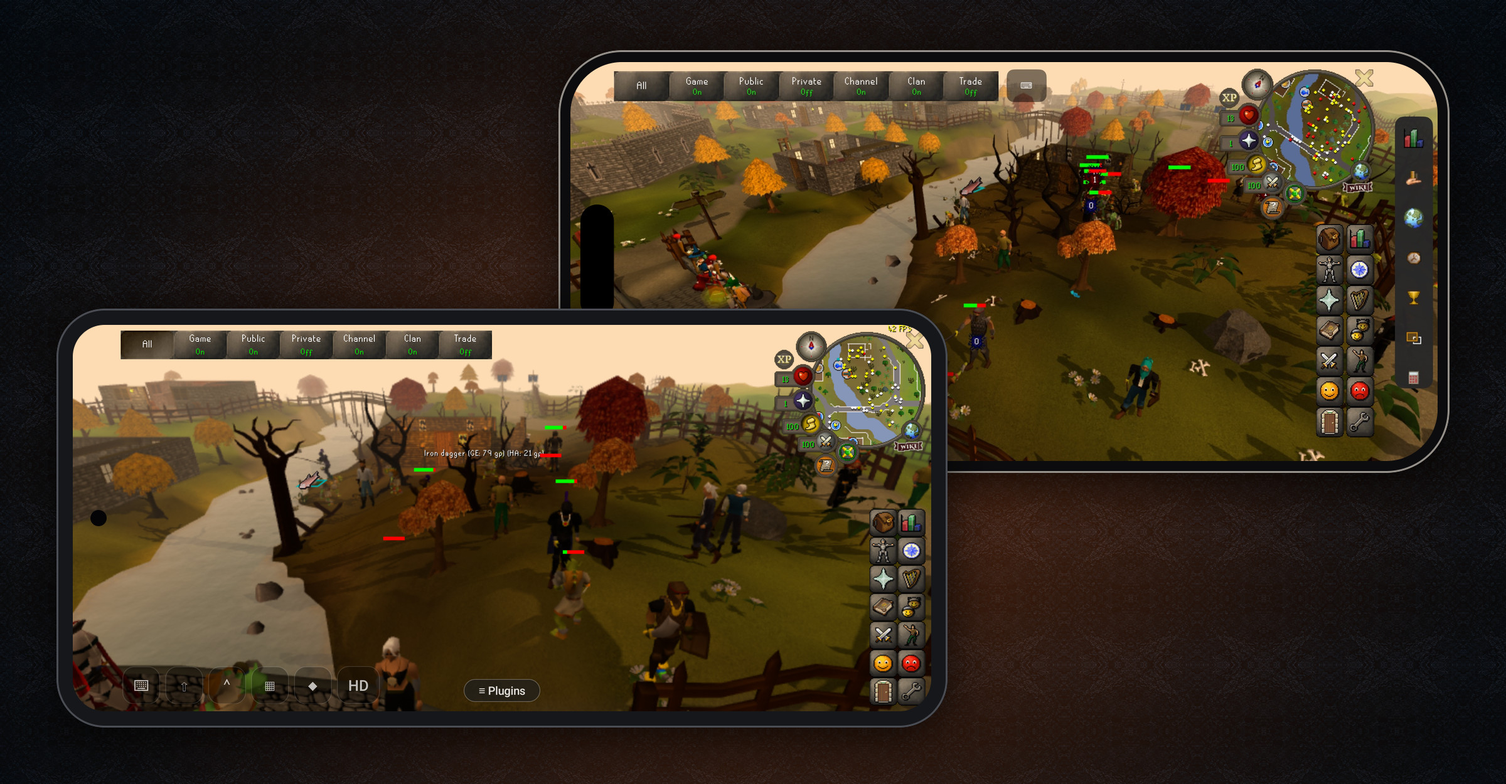
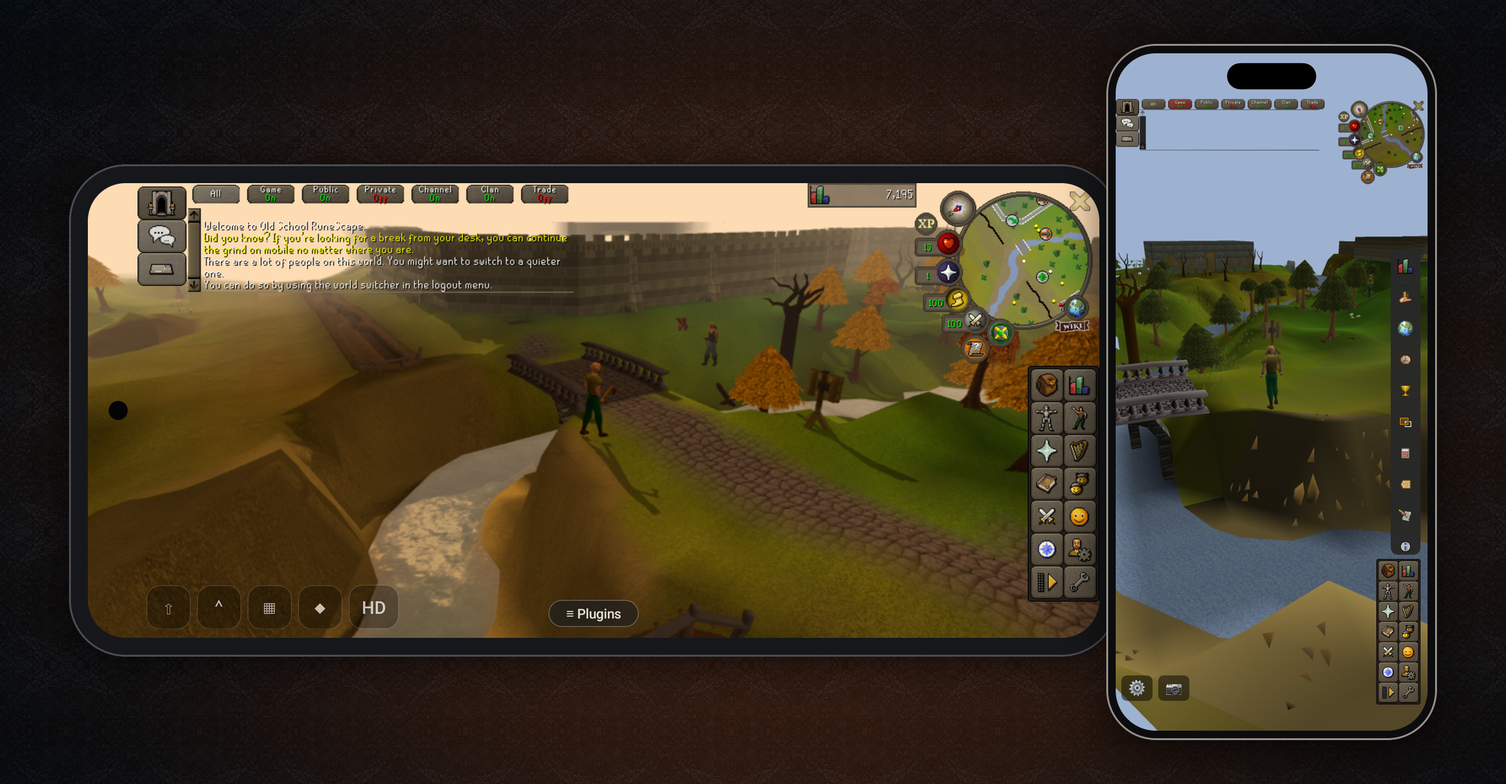
docs: new README screenshots
The top image pairs a Pixel 7a held sideways in 117 HD with an iPhone held
upright, no plugins drawing and the chat shown. Six feature cards replace the
old four: Quest Helper, Shortest Path, the Plugin Hub, 117 HD, the hold menu
and Menu Entry Swapper. make-showcase.py paints the account's name out of
each capture's chat line from a redact.json kept beside the captures, and
the hero's sideways phone tucks under the upright one by less than its
bezel so a HUD drawn to the screen's edge stays in view.

diff --git a/tools/brand/make-showcase.py b/tools/brand/make-showcase.py
@@ -4,25 +4,32 @@
     /usr/bin/python3 tools/brand/make-showcase.py build/showcase    # writes docs/screenshots/
 
 The input folder holds full-size, unedited captures named as in HERO and CARDS below. Keep it out of git: a raw
-capture can show the account's name, other players' chat or a hover menu. Check every capture before a build;
-this script frames what it's given and hides nothing.
+capture can show the account's name, other players' chat or a hover menu. Check every capture before a build.
 
-    Android: adb exec-out screencap -p > android-117hd.png              (Pixel 7a, 2400x1080 landscape)
-    iOS:     a screenshot taken on the iPhone, for 117 HD               (the simulator takes minutes to warm it up)
-             xcrun simctl io <udid> screenshot ios-plugins.png          (iPhone 17 Pro Max simulator)
+The chat's input line shows the account's name. The folder's redact.json lists a box over it for each capture,
+{"<capture>": [[x, y, w, h], ...]} in the capture's own px, and the build paints each box over from the picture
+just below it, so the name is gone, not blurred. Cover the cursor after the name too. The build stops if redact.json is missing, or names a capture no output uses. Read every output for the
+name before publishing: text recognition misses the portrait chat's small text.
 
-The simulator saves its captures portrait; they are turned to landscape here, island on the left as on the Pixel.
+    iOS:     xcrun simctl io <udid> screenshot ios-hub.png       (iPhone 17 Pro Max simulator)
+    Android: adb exec-out screencap -p > android-117hd.png        (Pixel 7a)
 
-Each output is a capture in a drawn phone on the brand's stone backdrop (make-brand.py). The game draws 540 rows
-and each phone scales that up to fill its screen, so a phone's screen here is about the game's own size: shown
-smaller than the capture, it is also sharper.
+A capture is used the way it stands, so a phone in a card is landscape or portrait as its capture is. The simulator
+saves its framebuffer portrait whichever way the game is turned: turn a landscape one a quarter left first
+(top of the game on the left, island on the left), e.g. Image.rotate(90, expand=True).
+
+Each output is a capture in a drawn phone on the brand's stone backdrop (make-brand.py). The hero pairs a
+landscape phone with a portrait one; a card is a headline over a landscape phone, or beside a portrait one, all
+cards the same size so the README's table lines up.
 
 Needs Pillow and NumPy (/usr/bin/python3 has both).
 """
 import argparse
 import importlib.util
+import json
 import os
 import sys
+import textwrap
 
 import numpy as np
 from PIL import Image, ImageDraw, ImageFilter, ImageFont
@@ -45,33 +52,66 @@ PHONES = {
     "iphone": dict(bezel=0.030, corner=0.150, body=(12, 12, 14), rim=(150, 145, 138)),  # Dynamic Island
 }
 
-# (output, capture, phone kind)
-HERO = [("ios-117hd.png", "iphone"), ("android-117hd.png", "pixel")]  # back to front
-# (output, capture, phone kind, headline, line under it)
+# (capture, phone kind): the landscape phone, then the portrait one in front of it
+HERO = [("android-hero-land.png", "pixel"), ("ios-hero-port.png", "iphone")]
+# (output, capture, phone kind, headline, line under it). The README shows them two to a row, in this order.
 CARDS = [
-    ("overlays.jpg", "android-overlays.png", "pixel", "Your overlays, on the go",
-     "Ground items, hit splats, timers and the FPS counter, as on desktop."),
-    ("plugins.jpg", "ios-plugins.png", "iphone", "Real RuneLite plugins",
-     "Turn plugins on and off and change their settings in native screens."),
-    ("renderers.jpg", "android-renderers.png", "pixel", "CPU, GPU or 117 HD",
-     "Pick the renderer that suits your phone."),
-    ("panels.jpg", "ios-panel.png", "iphone", "Side panels a tap away",
-     "World Switcher, XP Tracker, Notes and more open beside the game."),
+    ("quest-helper.jpg", "ios-quest-helper.png", "iphone", "Quest Helper",
+     "Every quest step on screen, and the way there drawn for you."),
+    ("shortest-path.jpg", "ios-shortest-path.png", "iphone", "Shortest Path",
+     "Pick a place and walk the route it draws on the ground and the minimap."),
+    ("plugin-hub.jpg", "ios-plugin-hub.png", "iphone", "The Plugin Hub",
+     "Thousands of community plugins, installed with a tap."),
+    ("117hd.jpg", "android-117hd.png", "pixel", "117 HD",
+     "Sunlight, shadows and the seasons, from the HD renderer."),
+    ("menu.jpg", "ios-menu.png", "iphone", "Hold for every option",
+     "The right-click menu, with the options plugins add."),
+    ("menu-entry-swapper.jpg", "ios-menu-entry-swapper.png", "iphone", "Menu Entry Swapper",
+     "Choose what a tap does, in native settings for every plugin."),
 ]
+CARD_W, CARD_H, PAD = 1600, 1060, 84
 
 
-def capture(folder, name):
+def boxes(folder):
+    """redact.json: the boxes to paint over in each capture."""
+    path = os.path.join(folder, "redact.json")
+    if not os.path.isfile(path):
+        sys.exit(f"missing {path}: list the boxes over the account's name, or {{}} if no capture shows it")
+    with open(path) as f:
+        redact = json.load(f)
+    used = {name for name, _ in HERO} | {c[1] for c in CARDS}
+    for name, rects in redact.items():
+        if name not in used:
+            sys.exit(f"redact.json names {name}, which no output uses")
+        if not all(len(r) == 4 and all(isinstance(v, int) for v in r) and r[2] > 0 and r[3] > 0 for r in rects):
+            sys.exit(f"redact.json: {name} needs [[x, y, w, h], ...] in whole px")
+    return redact
+
+
+def erase(shot, x, y, w, h):
+    """Paint over the box with the row of px just below it, softened sideways. Not the row above: in portrait that is
+    the chat's divider line."""
+    if x < 4 or x + w + 4 > shot.width or y < 0 or y + h >= shot.height:
+        sys.exit(f"redact box {[x, y, w, h]} isn't inside the {shot.width}x{shot.height} capture")
+    a = np.asarray(shot).astype(float)
+    below = a[y + h, x - 4:x + w + 4]
+    soft = np.stack([np.convolve(below[:, c], np.ones(9) / 9, mode="valid") for c in range(3)], axis=1)
+    a[y:y + h, x:x + w] = soft[None]
+    return Image.fromarray(a.round().astype("uint8"))
+
+
+def capture(folder, name, redact):
     path = os.path.join(folder, name)
     if not os.path.isfile(path):
         sys.exit(f"missing capture: {path}")
     shot = Image.open(path).convert("RGB")
-    if shot.height > shot.width:  # a simulator capture: portrait framebuffer, top of the phone up
-        shot = shot.rotate(90, expand=True)
     if name.startswith("android-"):
         # The Pixel's captures can carry a short red line along the top row; the row below is clean game picture.
         a = np.asarray(shot).copy()
         a[0:2] = a[2]
         shot = Image.fromarray(a)
+    for box in redact.get(name, []):
+        shot = erase(shot, *box)
     return shot
 
 
@@ -79,15 +119,19 @@ def alpha(cov):
     return Image.fromarray((np.clip(cov, 0, 1) * 255).round().astype("uint8"))
 
 
-def phone(shot, kind, width):
-    """`shot` in a drawn `kind` phone `width` px wide, as RGBA."""
+def phone(shot, kind, width=None, height=None):
+    """`shot` in a drawn `kind` phone `width` px wide (or `height` px tall), as RGBA."""
     spec = PHONES[kind]
     ratio = shot.height / shot.width
-    sw = round(width / (1 + 2 * spec["bezel"] * ratio))
+    portrait = ratio > 1
+    short = 1 if portrait else ratio  # the screen's short side, per px of its width
+    if width is None:
+        width = round(height / (ratio + 2 * spec["bezel"] * short) * (1 + 2 * spec["bezel"] * short))
+    sw = round(width / (1 + 2 * spec["bezel"] * short))
     sh = round(sw * ratio)
     b = (width - sw) // 2
     w, h = sw + 2 * b, sh + 2 * b
-    radius = spec["corner"] * h
+    radius = spec["corner"] * min(w, h)
 
     d = brand.sd_roundrect(w, h, radius)
     out = Image.new("RGBA", (w, h), (0, 0, 0, 0))
@@ -96,18 +140,20 @@ def phone(shot, kind, width):
     screen = shot.resize((sw, sh), Image.LANCZOS)
     out.paste(screen, (b, b), alpha(brand.coverage(brand.sd_roundrect(sw, sh, max(radius - b, 0)))))
 
-    yy, xx = np.mgrid[0:h, 0:w].astype(float)
+    # Work in the phone's own frame: u runs along the long side from the camera end, v across the short side.
+    yy, xx = np.mgrid[0:h, 0:w].astype(float) + 0.5
+    long_px, short_px = (sh, sw) if portrait else (sw, sh)
+    u, v = (yy - b, xx - w / 2) if portrait else (xx - b, yy - h / 2)
     if kind == "pixel":
-        r = 0.021 * sh
-        cam = np.hypot(xx + 0.5 - (b + 0.03 * sw), yy + 0.5 - h / 2) - r
+        cam = np.hypot(u - 0.03 * long_px, v) - 0.021 * short_px
         out.paste(Image.new("RGB", (w, h), (4, 4, 6)), (0, 0), alpha(brand.coverage(cam)))
     else:
-        # Dynamic Island: 37 x 126 pt on a 956 x 440 pt screen, 11 pt in from the edge.
-        iw, ih = 0.0387 * sw, 0.286 * sh
-        cx, cy = b + 0.0115 * sw + iw / 2, h / 2
-        qx = np.abs(xx + 0.5 - cx)  # a capsule: the corner radius is half the width
-        qy = np.abs(yy + 0.5 - cy) - (ih / 2 - iw / 2)
-        island = np.hypot(np.maximum(qx, 0), np.maximum(qy, 0)) + np.minimum(np.maximum(qx, qy), 0) - iw / 2
+        # Dynamic Island: 36.7 x 125.3 pt on a 956 x 440 pt screen, 14 pt in from the edge, as the simulator draws it.
+        thick, length, inset = 36.7 / 956 * long_px, 125.3 / 440 * short_px, 14 / 956 * long_px
+        # A capsule: a segment along the short side, rounded by half the thickness.
+        qu = np.abs(u - inset - thick / 2)
+        qv = np.abs(v) - (length / 2 - thick / 2)
+        island = np.hypot(np.maximum(qu, 0), np.maximum(qv, 0)) + np.minimum(np.maximum(qu, qv), 0) - thick / 2
         out.paste(Image.new("RGB", (w, h), (0, 0, 0)), (0, 0), alpha(brand.coverage(island)))
     return out
 
@@ -127,28 +173,64 @@ def centred(draw, text, face, size, fill, y, width):
     return y + bottom - top
 
 
-def hero(master, folder):
+def wrapped(text, face, size, width):
+    """`text` broken into lines no wider than `width` at `size`."""
+    font = ImageFont.truetype(brand.FONT, size, index=face)
+    for chars in range(len(text), 0, -1):
+        lines = textwrap.wrap(text, chars)
+        if all(font.getlength(line) <= width for line in lines):
+            return lines
+    return [text]
+
+
+def hero(master, folder, redact):
     w, h = 2400, 1250
     canvas = brand.backdrop(master, w, h, 0.5)
-    glow(canvas, (300, 260, 2100, 1150), 0.32)
-    back = phone(capture(folder, HERO[0][0]), HERO[0][1], 1420)
-    front = phone(capture(folder, HERO[1][0]), HERO[1][1], 1420)
-    brand.shadow(canvas, back, (w - back.width - 90, 80), 36)
-    brand.shadow(canvas, front, (90, h - front.height - 90), 36)
+    glow(canvas, (240, 220, 2260, 1130), 0.32)
+    port = phone(capture(folder, HERO[1][0], redact), HERO[1][1], height=1110)
+    port_x = w - port.width - 110
+    # The landscape phone tucks under the portrait one by less than its bezel: a HUD drawn to the screen's edge,
+    # like the Pixel's tab buttons, stays in view.
+    land = phone(capture(folder, HERO[0][0], redact), HERO[0][1], width=port_x + 20 - 110)
+    brand.shadow(canvas, land, (110, (h - land.height) // 2 + 30), 36)
+    brand.shadow(canvas, port, (port_x, (h - port.height) // 2), 36)
     return canvas
 
 
-def card(master, folder, shot, kind, headline, line):
-    w, pad, phone_w = 1600, 84, 1400
-    dev = phone(capture(folder, shot), kind, phone_w)
-    h = pad + 84 + 22 + 42 + 64 + dev.height + 96
-    canvas = brand.backdrop(master, w, h, 0.5)
+def card(master, folder, redact, shot, kind, headline, line):
+    shot = capture(folder, shot, redact)
+    canvas = brand.backdrop(master, CARD_W, CARD_H, 0.5)
     draw = ImageDraw.Draw(canvas)
-    y = centred(draw, headline, HEAVY, brand.fit_size(headline, HEAVY, 84, w - 2 * pad), WHITE, pad, w)
-    y = centred(draw, line, MEDIUM, brand.fit_size(line, MEDIUM, 42, w - 2 * pad), SAND, y + 22, w)
-    top = y + 64
-    glow(canvas, (160, top + 80, w - 160, top + dev.height + 40), 0.28)
-    brand.shadow(canvas, dev, ((w - dev.width) // 2, top), 30)
+    if shot.width > shot.height:
+        # Landscape: the headline and its line centred over the phone.
+        dev = phone(shot, kind, width=1400)
+        w = CARD_W
+        y = centred(draw, headline, HEAVY, brand.fit_size(headline, HEAVY, 84, w - 2 * PAD), WHITE, PAD, w)
+        y = centred(draw, line, MEDIUM, brand.fit_size(line, MEDIUM, 42, w - 2 * PAD), SAND, y + 22, w)
+        top = y + (CARD_H - y - dev.height) // 2
+        glow(canvas, (160, top + 80, w - 160, top + dev.height + 40), 0.28)
+        brand.shadow(canvas, dev, ((w - dev.width) // 2, top), 30)
+        return canvas
+    # Portrait: the phone on the right, the headline and its line beside it.
+    dev = phone(shot, kind, height=CARD_H - 2 * 70)
+    x = CARD_W - dev.width - 150
+    text_w = x - 2 * PAD
+    head = wrapped(headline, HEAVY, 96, text_w)
+    body = wrapped(line, MEDIUM, 46, text_w)
+    head_font = ImageFont.truetype(brand.FONT, 96, index=HEAVY)
+    body_font = ImageFont.truetype(brand.FONT, 46, index=MEDIUM)
+    head_step, body_step, gap = 112, 62, 34
+    block = len(head) * head_step + gap + len(body) * body_step
+    y = (CARD_H - block) // 2
+    for text in head:
+        draw.text((PAD + 20, y), text, font=head_font, fill=WHITE)
+        y += head_step
+    y += gap
+    for text in body:
+        draw.text((PAD + 20, y), text, font=body_font, fill=SAND)
+        y += body_step
+    glow(canvas, (x - 120, 120, x + dev.width + 120, CARD_H - 80), 0.30)
+    brand.shadow(canvas, dev, (x, (CARD_H - dev.height) // 2), 30)
     return canvas
 
 
@@ -157,9 +239,10 @@ def main():
     ap.add_argument("captures", help="folder of raw captures (keep it out of git)")
     args = ap.parse_args()
     master = Image.open(brand.MASTER).convert("RGB")
+    redact = boxes(args.captures)
     os.makedirs(OUT, exist_ok=True)
-    outputs = [("hero.jpg", hero(master, args.captures))]
-    outputs += [(name, card(master, args.captures, *rest)) for name, *rest in CARDS]
+    outputs = [("hero.jpg", hero(master, args.captures, redact))]
+    outputs += [(name, card(master, args.captures, redact, *rest)) for name, *rest in CARDS]
     for name, img in outputs:
         path = os.path.join(OUT, name)
         img.save(path, quality=90, subsampling=0, optimize=True, progressive=True)  # 4:4:4 keeps the UI text crisp

diff --git a/README.md b/README.md
@@ -21,7 +21,7 @@
 > your own risk.** See [Legal notice](#legal-notice) and [Risk & disclaimer](#risk--disclaimer).
 
 <p align="center">
-  <img src="docs/screenshots/hero.jpg" alt="RuneMobile running 117 HD on an iPhone and an Android phone">
+  <img src="docs/screenshots/hero.jpg" alt="RuneMobile on a Pixel 7a held sideways, in the 117 HD renderer, and on an iPhone held upright: the game by the Lumbridge river, with the chat, minimap and tab buttons laid out like the official mobile app">
 </p>
 
 ## Get it
@@ -71,17 +71,20 @@ engine and its plugins, with a native mobile UI layered on top.
 
 <table>
   <tr>
-    <td width="50%"><img src="docs/screenshots/overlays.jpg" alt="In game on Android with RuneLite overlays: ground item prices, hit splats, timers and the FPS counter"></td>
-    <td width="50%"><img src="docs/screenshots/plugins.jpg" alt="The native plugin list on iPhone, with each plugin's switch and settings"></td>
+    <td width="50%"><img src="docs/screenshots/quest-helper.jpg" alt="Quest Helper on iPhone, held sideways: the current step in a box under the chat, and the route to it drawn on the ground and the minimap"></td>
+    <td width="50%"><img src="docs/screenshots/shortest-path.jpg" alt="Shortest Path on iPhone, held upright: a red route drawn on the ground over the hill and on the minimap"></td>
   </tr>
   <tr>
-    <td width="50%"><img src="docs/screenshots/renderers.jpg" alt="The renderer picker on Android: CPU, GPU or 117 HD"></td>
-    <td width="50%"><img src="docs/screenshots/panels.jpg" alt="The World Switcher side panel open beside the game on iPhone"></td>
+    <td width="50%"><img src="docs/screenshots/plugin-hub.jpg" alt="The Plugin Hub on iPhone, held upright: thousands of community plugins, with the installed ones first"></td>
+    <td width="50%"><img src="docs/screenshots/117hd.jpg" alt="The 117 HD renderer on a Pixel 7a, held sideways: autumn trees and haze over the river gorge by the Lumbridge bridge, with the chat and tab buttons"></td>
+  </tr>
+  <tr>
+    <td width="50%"><img src="docs/screenshots/menu.jpg" alt="Holding a quest in the quest list on iPhone: the full option menu, with Start Quest Helper added by the plugin"></td>
+    <td width="50%"><img src="docs/screenshots/menu-entry-swapper.jpg" alt="Menu Entry Swapper's native settings on iPhone, held upright, with the NPC swaps section open"></td>
   </tr>
 </table>
 
-Captured on a Pixel 7a, an iPhone 17 Pro Max and the iOS Simulator. To rebuild them from new captures, see
-[`tools/brand/make-showcase.py`](tools/brand/make-showcase.py).
+To rebuild them from new captures, see [`tools/brand/make-showcase.py`](tools/brand/make-showcase.py).
 
 ---
 
